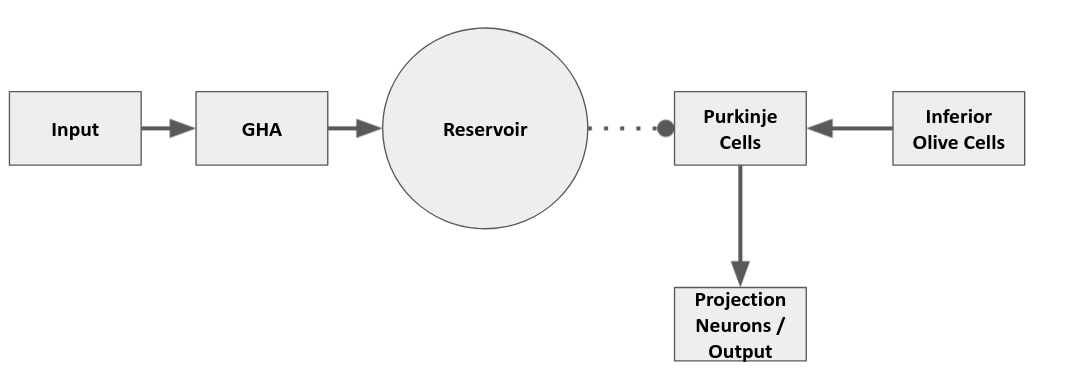
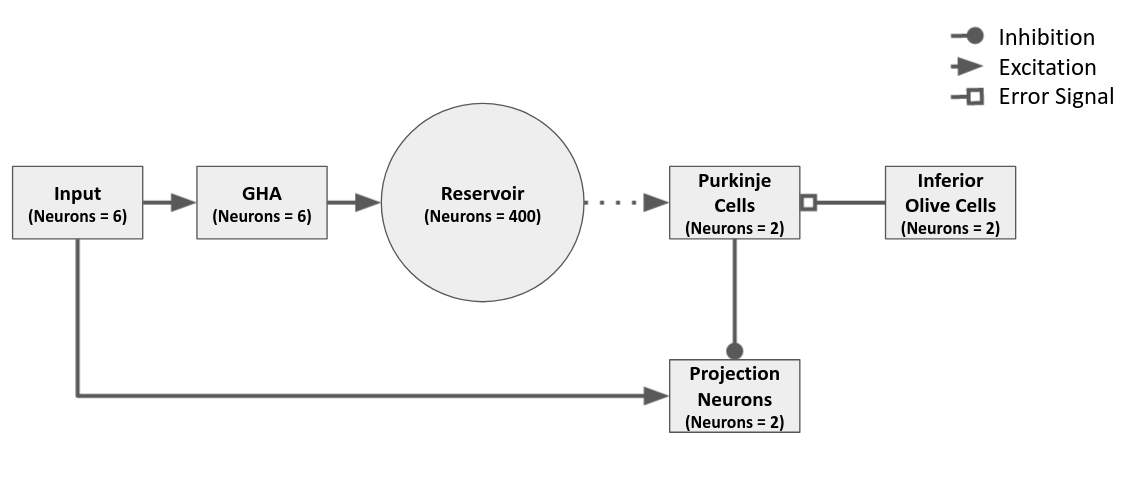
Vorläufige Version 20211019

diff --git a/articel_mod.md b/articel_mod.md
@@ -1,0 +1,111 @@
+# Model
+
+
+
+The current network is a reservoir computing model structurally inspired by the human cerebellum. Input (mossy fibers) is fed through a intermediary layer into a reservoir and the output cells (projection neurons). A general hebbian algorithm layer is used as the intermediary to decorrelate the input information before it is redirected to the reservoir. The reservoir is read out by a feedforward layer the purkinje cells which in turn inhibit the projection neurons (dentate nucleus neurons). Synaptic weights are only adjusted between the reservoir and the purkinje cell layer. The projection neurons fire rate functions as the model output on which basis the error is calculated. The layers of the purkinje cells, inferior olive cells and the projection neurons consist of each one neuron for the x and y coordinate. 
+
+
+
+
+
+
+![**Figure 1:** Structure of the model.](img/cb_model.png){width=80%}
+
+
+
+The model is trained to predict the next position of the hand of a 2d arm ((x<sub>t+1</sub>, y<sub>t+1</sub>)) based on the current position ((x<sub>t</sub>, y<sub>t</sub>)) and a movement command in   form of the Δ of the joint angles (ΔӨ<sub>elbow</sub> and ΔӨ<sub>shoulder</sub> ) . The base of the arm is situated at the coordinate origin. Additionally the input contains the information about the Δ of the last step to the current step i.e.  (Δx = x<sub>t</sub> - x<sub>t-1</sub> ; Δy = y<sub>t</sub> - y<sub>t-1</sub>). 
+
+Furthermore the input was based on the target circle and not on the predictions of the model i.e. the current position of of the hand at timestep t+1 is represented by the target of timestep t and not of the model prediciton of timestep t. Thus ΔӨ<sub>elbow</sub> and ΔӨ<sub>shoulder</sub> was calculated as the movement command from the last position on the target circle to the current position on the target circle. The same principle applies to the information about the last step i.e. Δx = x<sub>t</sub> - x<sub>t-1</sub> = x<sub>t</sub> - x<sub>target_t</sub> . 
+
+The error was calculated as normalized MSE based on the difference/delta of the predicted (x<sub>t+1</sub>, y<sub>t+1</sub>) and (x<sub>target</sub>, y<sub>target</sub>).
+
+Training is done with 100.000 Circles, with 8 predictions/steps each. Each circle differentiated in the center of the circle, the radius, and the starting position of the hand in the circle. The degrees determining the movement per timestep was constant at 43 degrees each step. Thus each circle needed 8 steps for one complete circumnavigation. 
+
+
+
+
+
+
+
+### Equations:
+
+
+
+Learning only happened in the synapses between the reservoir and the purkinje cell layer. Weights are adjusted with a modified delta learning algorithm:
+$$
+\begin{aligned}Δw_{ij} =  𝜼 * (r_{i} * error_{j} - c*w_{ij)}) \\\end{aligned}
+$$
+
+The learning rate was set to 𝜼 = 0.005 . A cost parameter was added and set to c=0.001. 
+
+Fire rate of the the purkinje cell layer is not dynamic and described by
+$$
+\begin{aligned}r_{j} = \sum^i w_{ij}* r_i \\\end{aligned}
+$$
+
+
+Reservoir Neurons follow first-order ODEs:
+$$
+\tau + \frac {dx(t)}{dt} + x(t)= \sum w^{in} * r^{in}(t)+g
+$$
+with *τ* = 10 and g = 1 .
+
+Fire rate of the reservoir neurons was defined as :
+$$
+r(t) = tanh(x(t))
+$$
+
+### Task 
+
+In the random dot task, the movement of the dot displayed on the monitor consisted of the movement of the test subject and added noise. The ratio was specified by the control level,which defined the percentage of control a test subject had ofter the movement of the dot.  To simulate a similar task for the model a visual display circle was calculated. It was based on the a target circle with added noise. The noise added was take from the same noise array as in the dot task. Each step a random movement of the array was taken, normalized and added to the movement of the target circle. The ratio was specified by the control level.  
+
+This visual display was fed as input into the model. i.e.:
+
+	-	the current position of the effector (x<sub>t</sub>, y<sub>t</sub>)<sub>vd</sub> was taken from the visual display and not from the target circle or the prediction of them model of the 	 previous step.
+	-	ΔӨ<sub>elbow</sub> and ΔӨ<sub>shoulder</sub> were calculated for the movement from (x<sub>t</sub>, y<sub>t</sub>)<sub>vd</sub> to the target on the target circle for current step
+	-	Δx and Δy were based on the last movement by the visual display (Δx = (x<sub>t</sub> - x<sub>t-1</sub>)<sub>vd</sub> ; Δy = (y<sub>t</sub> - y<sub>t-1</sub>)<sub>vd</sub> )
+
+
+
+
+
+
+
+
+
+
+
+
+
+
+
+
+
+
+$$
+\begin{aligned}
+p_i(t) = \Bigg[\sum_j^{N_z} & D_{ij}\, m_{ij}\, \sum_{s=1}^t \exp\bigg({-\frac{t-s}{\tau_m}}\bigg)\, z_j(s-1) \\
++ & \sum_j^{N_i} H_{ij}\, w_{IO}\, \sum_{s=1}^t \exp\bigg({-\frac{t-s}{\tau_\text{IO}}}\bigg) \, l_j(s-1)\Bigg]^+ \\
+\end{aligned}
+$$
+
+## Figures:
+
+![**Figure 1:** Structure of the model.](img/model.svg){width=80%}
+
+Videos from Youtube:
+
+<div class='embed-container'><iframe src='https://www.youtube.com/embed/qhUvQiKec2U' frameborder='0' allowfullscreen></iframe></div>
+
+Local videos:
+
+<div class='embed-container'><iframe src='./videos/cover.mp4' frameborder='0' allowfullscreen></iframe></div>
+
+## Tasks
+
+## Results
+ Videos
+
+<div class='embed-container'><iframe src='./videos/training_circle_20-99999.mp4' frameborder='0' allowfullscreen></iframe></div>
+
+![**Figure 1:** Structure of the model.](img/model.svg){width=80%}
